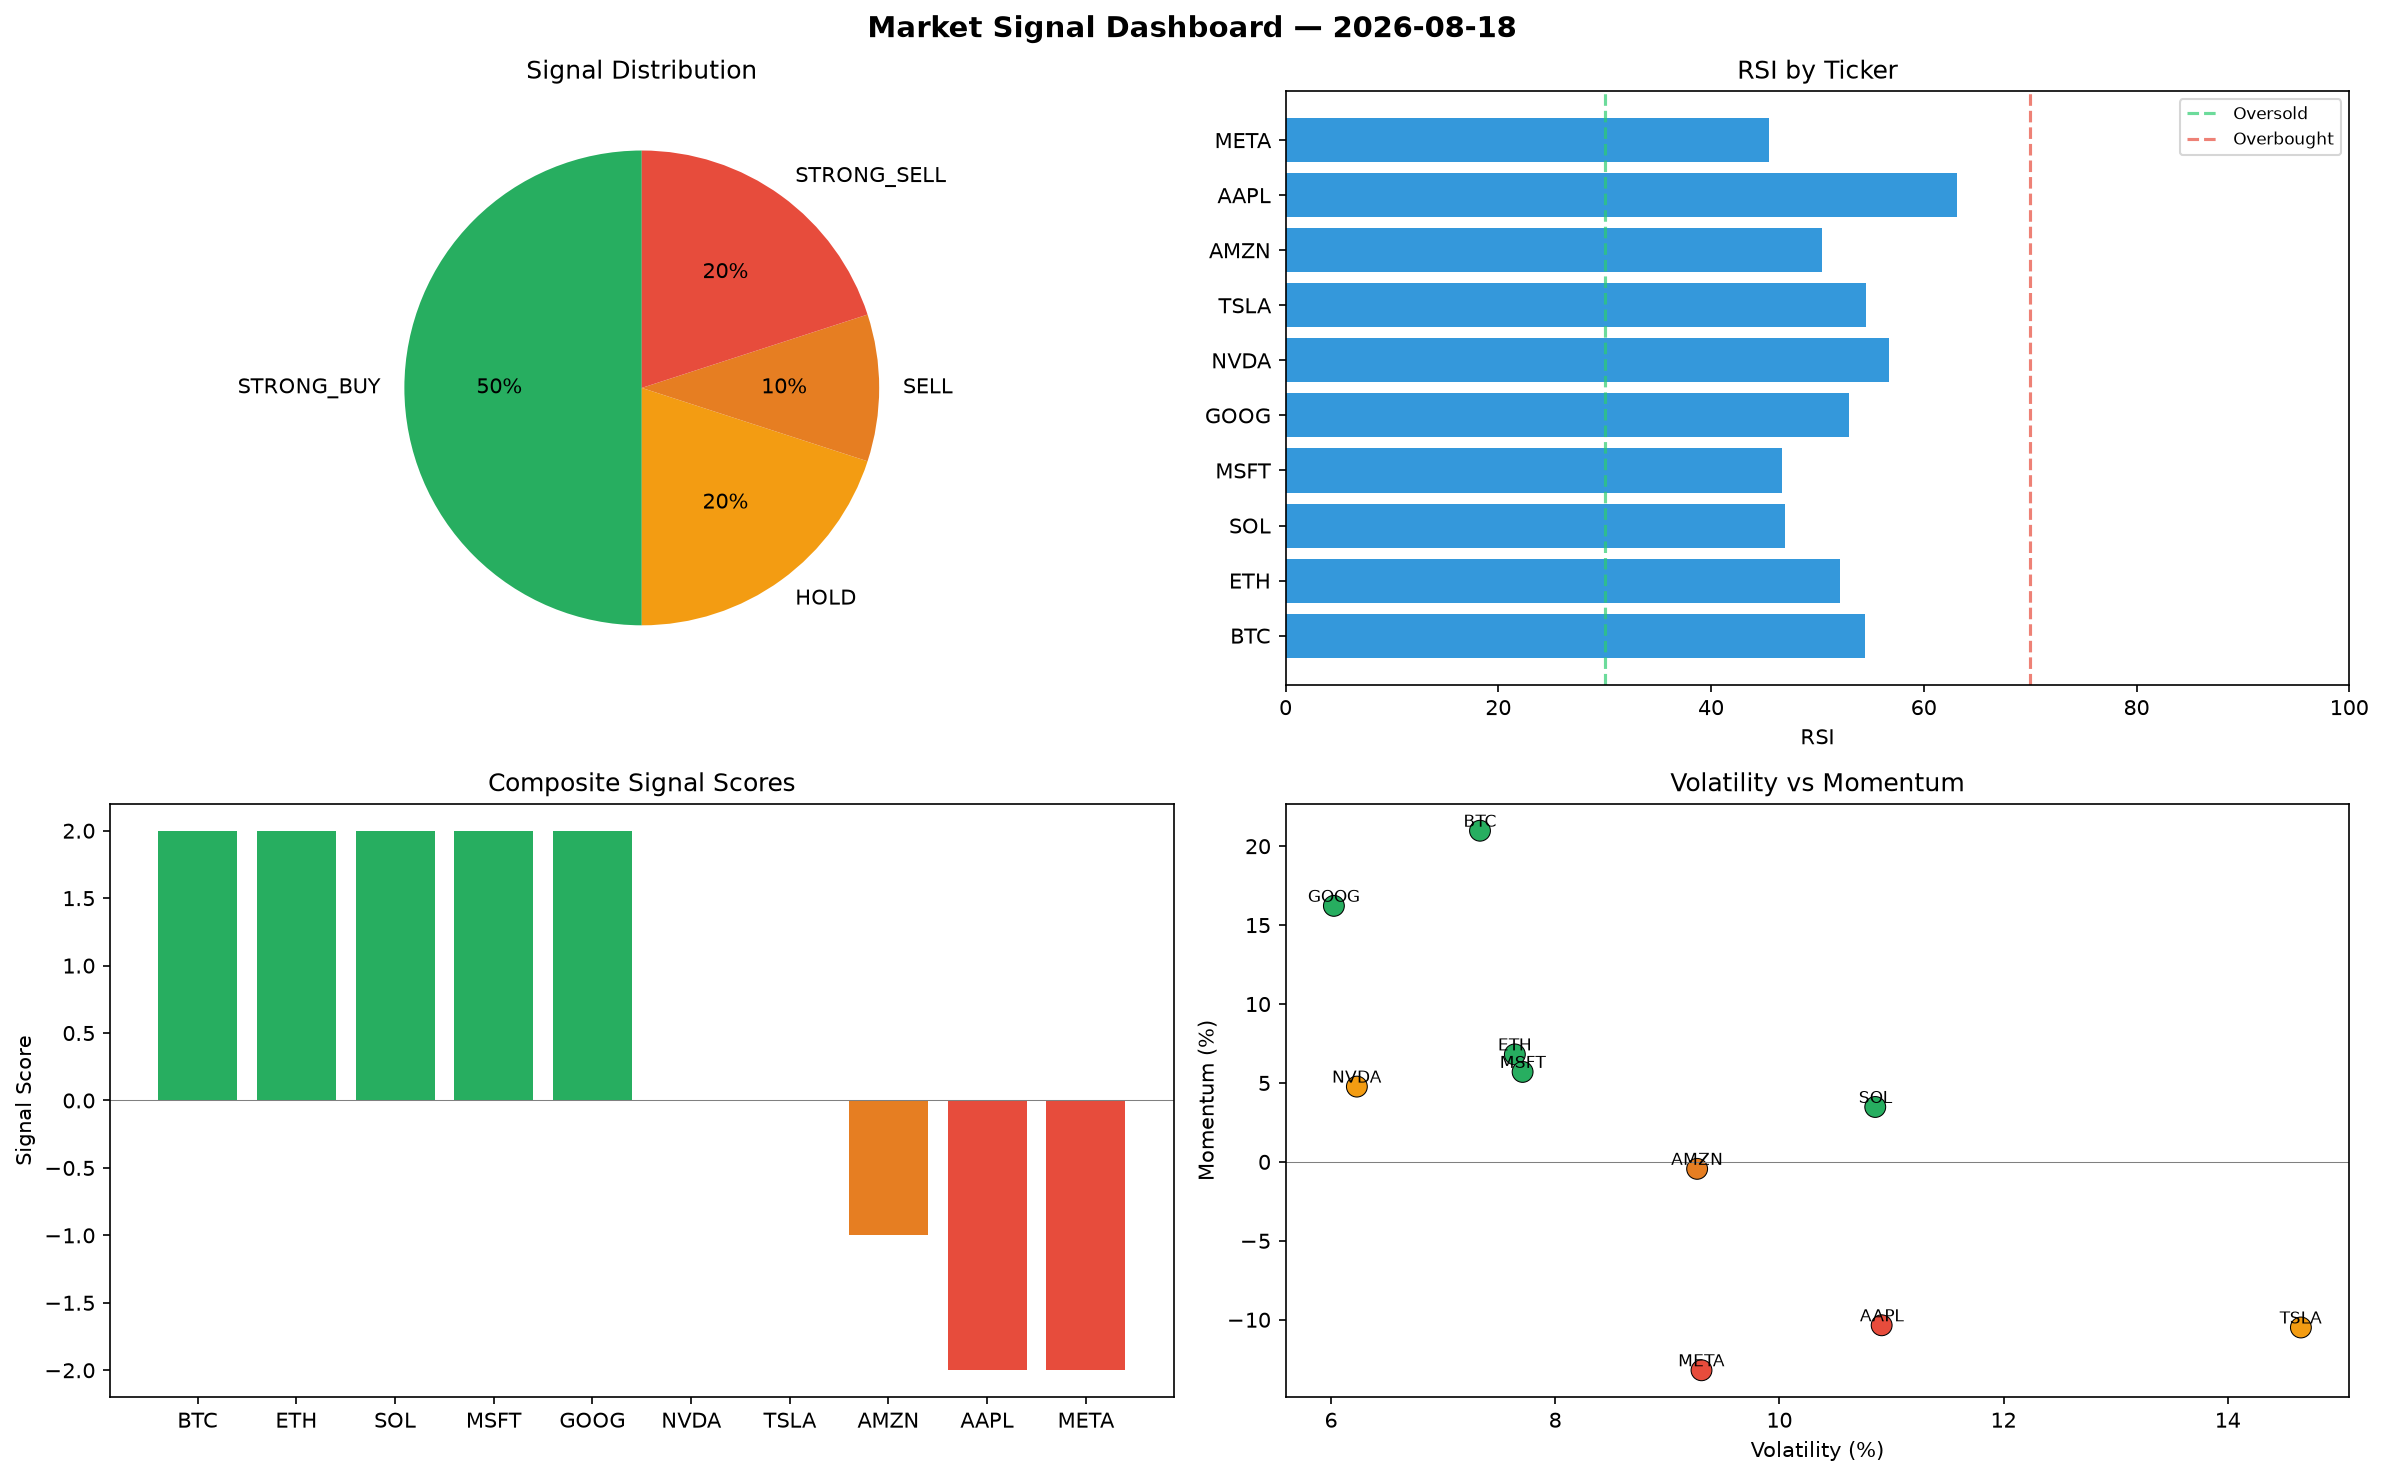
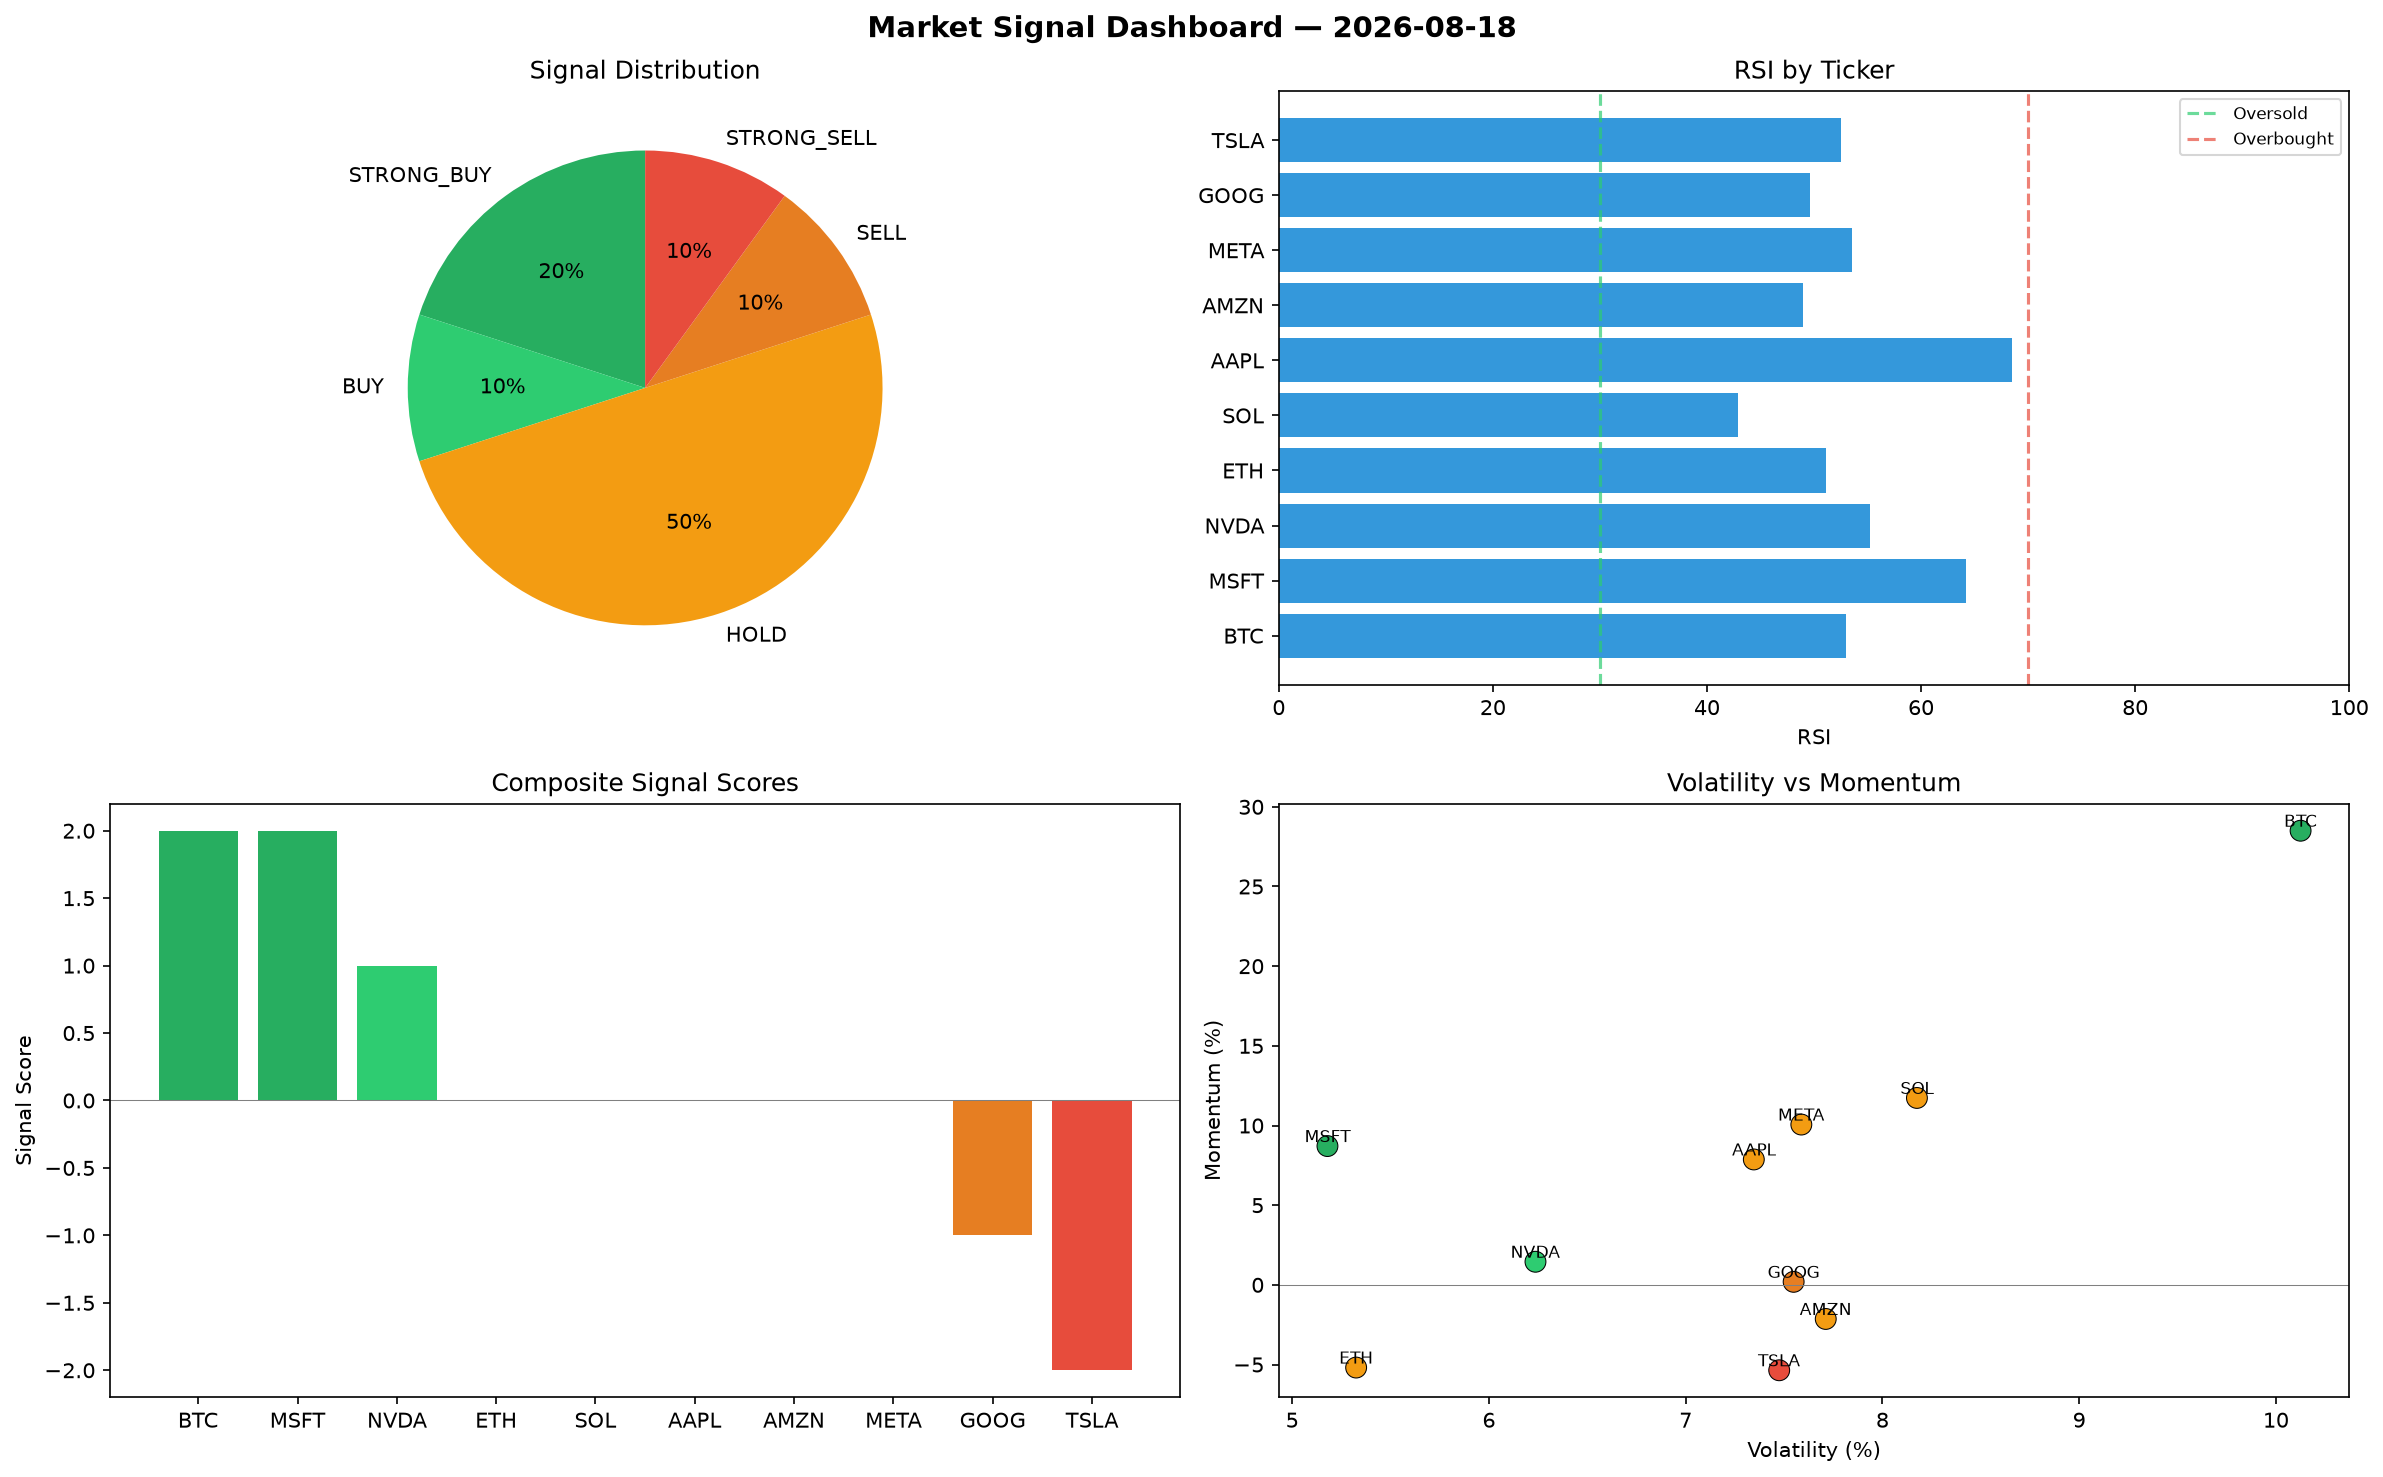
automated-bots: market signals 2026-08-18T09:01

diff --git a/logs/2026-08-18.md b/logs/2026-08-18.md
@@ -1,6 +1,6 @@
 # Market Signal Report — 2026-08-18
 
-**Run ID:** `9c779b39af` | **Buy:** 5 | **Sell:** 3 | **Hold:** 2
+**Run ID:** `ef335dac81` | **Buy:** 3 | **Sell:** 2 | **Hold:** 5
 
 ![Dashboard](2026-08-18_dashboard.png)
 
@@ -8,28 +8,28 @@
 
 | Ticker | Price | Signal | Score | RSI | Momentum | Confidence |
 |--------|-------|--------|-------|-----|----------|------------|
-| BTC | $4053.79 | **STRONG_BUY** | 2 | 54.49 | 0.2098 | 0.5 |
-| ETH | $4357.04 | **STRONG_BUY** | 2 | 52.16 | 0.0681 | 0.5 |
-| SOL | $3346.17 | **STRONG_BUY** | 2 | 46.92 | 0.0348 | 0.5 |
-| MSFT | $4374.19 | **STRONG_BUY** | 2 | 46.67 | 0.057 | 0.5 |
-| GOOG | $3421.48 | **STRONG_BUY** | 2 | 52.96 | 0.1622 | 0.5 |
-| NVDA | $282.37 | **HOLD** | 0 | 56.69 | 0.0477 | 0.0 |
-| TSLA | $2044.11 | **HOLD** | 0 | 54.53 | -0.1049 | 0.0 |
-| AMZN | $1897.79 | **SELL** | -1 | 50.42 | -0.0044 | 0.25 |
-| AAPL | $2146.1 | **STRONG_SELL** | -2 | 63.1 | -0.1035 | 0.5 |
-| META | $3384.81 | **STRONG_SELL** | -2 | 45.43 | -0.132 | 0.5 |
+| BTC | $664.65 | **STRONG_BUY** | 2 | 52.96 | 0.285 | 0.5 |
+| MSFT | $1945.09 | **STRONG_BUY** | 2 | 64.19 | 0.0871 | 0.5 |
+| NVDA | $1254.17 | **BUY** | 1 | 55.25 | 0.0145 | 0.25 |
+| ETH | $4747.62 | **HOLD** | 0 | 51.11 | -0.0519 | 0.0 |
+| SOL | $2561.19 | **HOLD** | 0 | 42.89 | 0.1173 | 0.0 |
+| AAPL | $781.29 | **HOLD** | 0 | 68.51 | 0.0787 | 0.0 |
+| AMZN | $4006.83 | **HOLD** | 0 | 48.94 | -0.0214 | 0.0 |
+| META | $1068.78 | **HOLD** | 0 | 53.59 | 0.1006 | 0.0 |
+| GOOG | $2415.2 | **SELL** | -1 | 49.6 | 0.0019 | 0.25 |
+| TSLA | $897.97 | **STRONG_SELL** | -2 | 52.53 | -0.0536 | 0.5 |
 
 ## Delta vs Yesterday
 
 | Ticker | Today | Yesterday | Price Change | Signal Changed |
 |--------|-------|-----------|-------------|----------------|
-| BTC | STRONG_BUY | STRONG_SELL | 📈 41.79% | ⚠ YES |
-| ETH | STRONG_BUY | STRONG_SELL | 📈 230.55% | ⚠ YES |
-| SOL | STRONG_BUY | BUY | 📉 -15.85% | ⚠ YES |
-| MSFT | STRONG_BUY | STRONG_SELL | 📈 63.98% | ⚠ YES |
-| GOOG | STRONG_BUY | STRONG_BUY | 📈 86.13% | — |
-| NVDA | HOLD | HOLD | 📉 -91.46% | — |
-| TSLA | HOLD | STRONG_SELL | 📈 217.52% | ⚠ YES |
-| AMZN | SELL | STRONG_BUY | 📈 682.17% | ⚠ YES |
-| AAPL | STRONG_SELL | SELL | 📉 -52.16% | ⚠ YES |
-| META | STRONG_SELL | HOLD | 📈 11.25% | ⚠ YES |
+| BTC | STRONG_BUY | STRONG_SELL | 📉 -76.75% | ⚠ YES |
+| MSFT | STRONG_BUY | STRONG_SELL | 📉 -27.08% | ⚠ YES |
+| NVDA | BUY | HOLD | 📉 -62.05% | ⚠ YES |
+| ETH | HOLD | STRONG_SELL | 📈 260.18% | ⚠ YES |
+| SOL | HOLD | BUY | 📉 -35.59% | ⚠ YES |
+| AAPL | HOLD | SELL | 📉 -82.58% | ⚠ YES |
+| AMZN | HOLD | STRONG_BUY | 📈 1551.42% | ⚠ YES |
+| META | HOLD | HOLD | 📉 -64.87% | — |
+| GOOG | SELL | STRONG_BUY | 📈 31.39% | ⚠ YES |
+| TSLA | STRONG_SELL | STRONG_SELL | 📈 39.49% | — |
